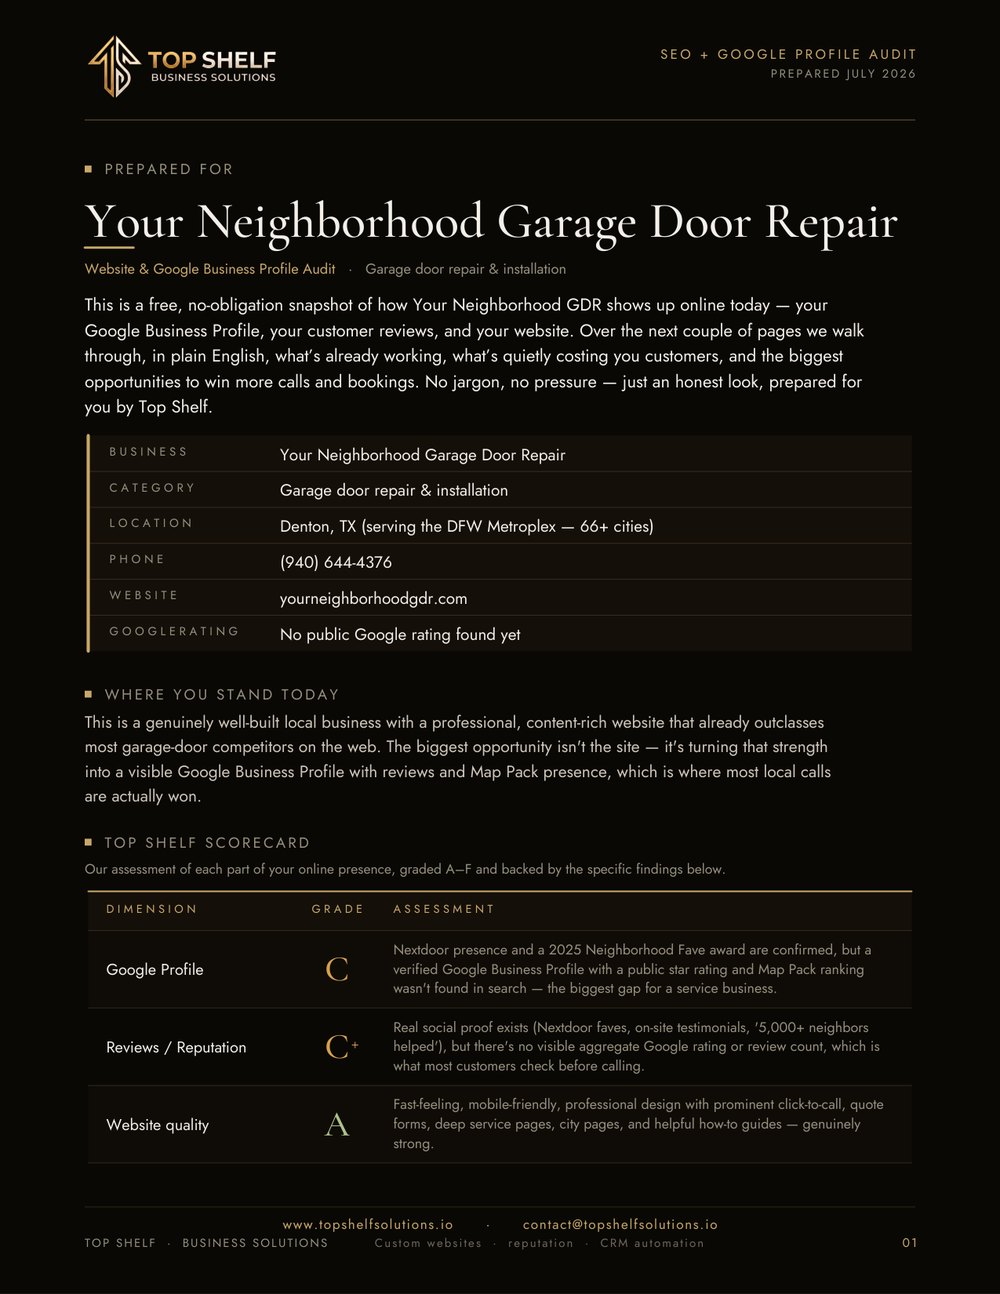
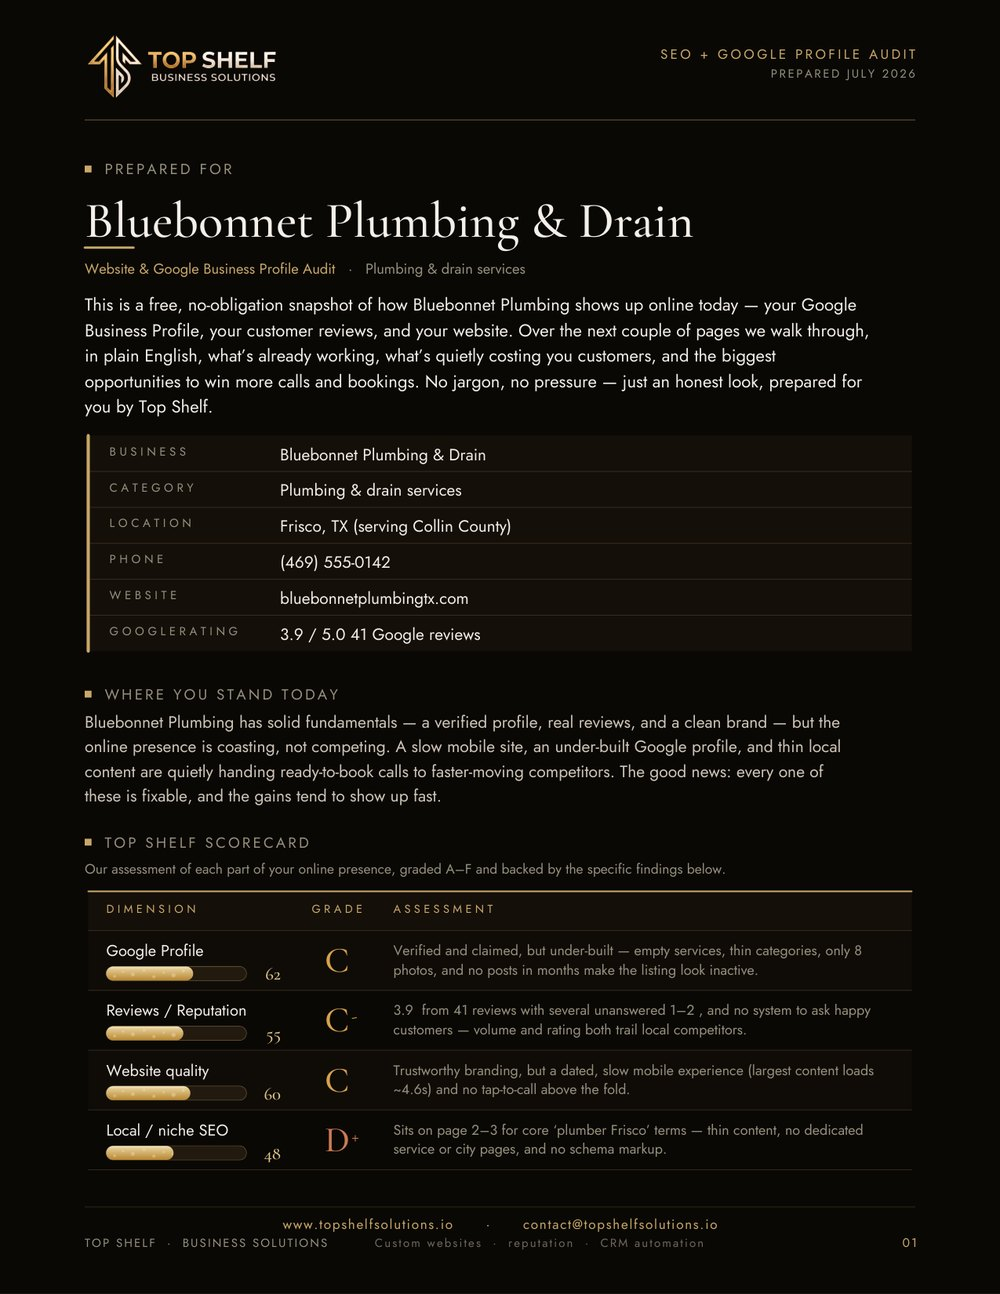
feat(site): swap sample audit to a fictional C-rated example + beer-style score bars
- Replaced the sample report with a made-up, average (C, 58/100) audit
  for 'Bluebonnet Plumbing & Drain' with realistic invented SEO issues
  (slow mobile, under-built GBP, thin local content, buried lead capture).
- Added static golden 'beer-style' /100 score bars (amber->gold gradient,
  cream bubbles, foam sheen) to the audit scorecard + a wide Overall bar.
  Backward compatible: real prospect audits without scores are unchanged.
- Reframed the sample page copy as an illustrative example (not a real client).

diff --git a/sample-report.html b/sample-report.html
@@ -76,15 +76,15 @@
 <section class="section rule-top">
   <div class="container">
     <div class="section-head" style="text-align:center;max-width:64ch;margin-inline:auto">
-      <span class="eyebrow reveal" style="justify-content:center">A real sample</span>
+      <span class="eyebrow reveal" style="justify-content:center">A sample report</span>
       <h2 class="display display-lg reveal" style="margin-top:1.6rem">What Your Report <em>Looks Like</em></h2>
-      <p class="reveal" style="margin-inline:auto">This is an actual deep-dive we ran for a local business (Your Neighborhood Garage Door Repair). Yours is built around <em>your</em> business, your market, and your competitors.</p>
+      <p class="reveal" style="margin-inline:auto">This is a sample deep-dive for an example local business, so you can see exactly what&rsquo;s inside &mdash; the scored A&ndash;F scorecard, the real findings, and the priority fixes. Yours is built around <em>your</em> business, your market, and your competitors.</p>
     </div>
     <div class="sr-wrap reveal">
-        <div class="sr-page reveal"><img src="assets/img/sample-report/p1.jpg?v=20260725" alt="Sample Top Shelf SEO report, page 1" loading="lazy"></div>
-        <div class="sr-page reveal"><img src="assets/img/sample-report/p2.jpg?v=20260725" alt="Sample Top Shelf SEO report, page 2" loading="lazy"></div>
-        <div class="sr-page reveal"><img src="assets/img/sample-report/p3.jpg?v=20260725" alt="Sample Top Shelf SEO report, page 3" loading="lazy"></div>
-      <div style="text-align:center;margin-top:.6rem"><a href="sample-seo-report.pdf" target="_blank" rel="noopener" class="btn btn-line">Open the full sample (PDF) <span class="arr">&rarr;</span></a></div>
+        <div class="sr-page reveal"><img src="assets/img/sample-report/p1.jpg?v=20260725b" alt="Sample Top Shelf SEO report, page 1" loading="lazy"></div>
+        <div class="sr-page reveal"><img src="assets/img/sample-report/p2.jpg?v=20260725b" alt="Sample Top Shelf SEO report, page 2" loading="lazy"></div>
+        <div class="sr-page reveal"><img src="assets/img/sample-report/p3.jpg?v=20260725b" alt="Sample Top Shelf SEO report, page 3" loading="lazy"></div>
+      <div style="text-align:center;margin-top:.6rem"><a href="sample-seo-report.pdf?v=20260725b" target="_blank" rel="noopener" class="btn btn-line">Open the full sample (PDF) <span class="arr">&rarr;</span></a></div>
     </div>
   </div>
 </section>
